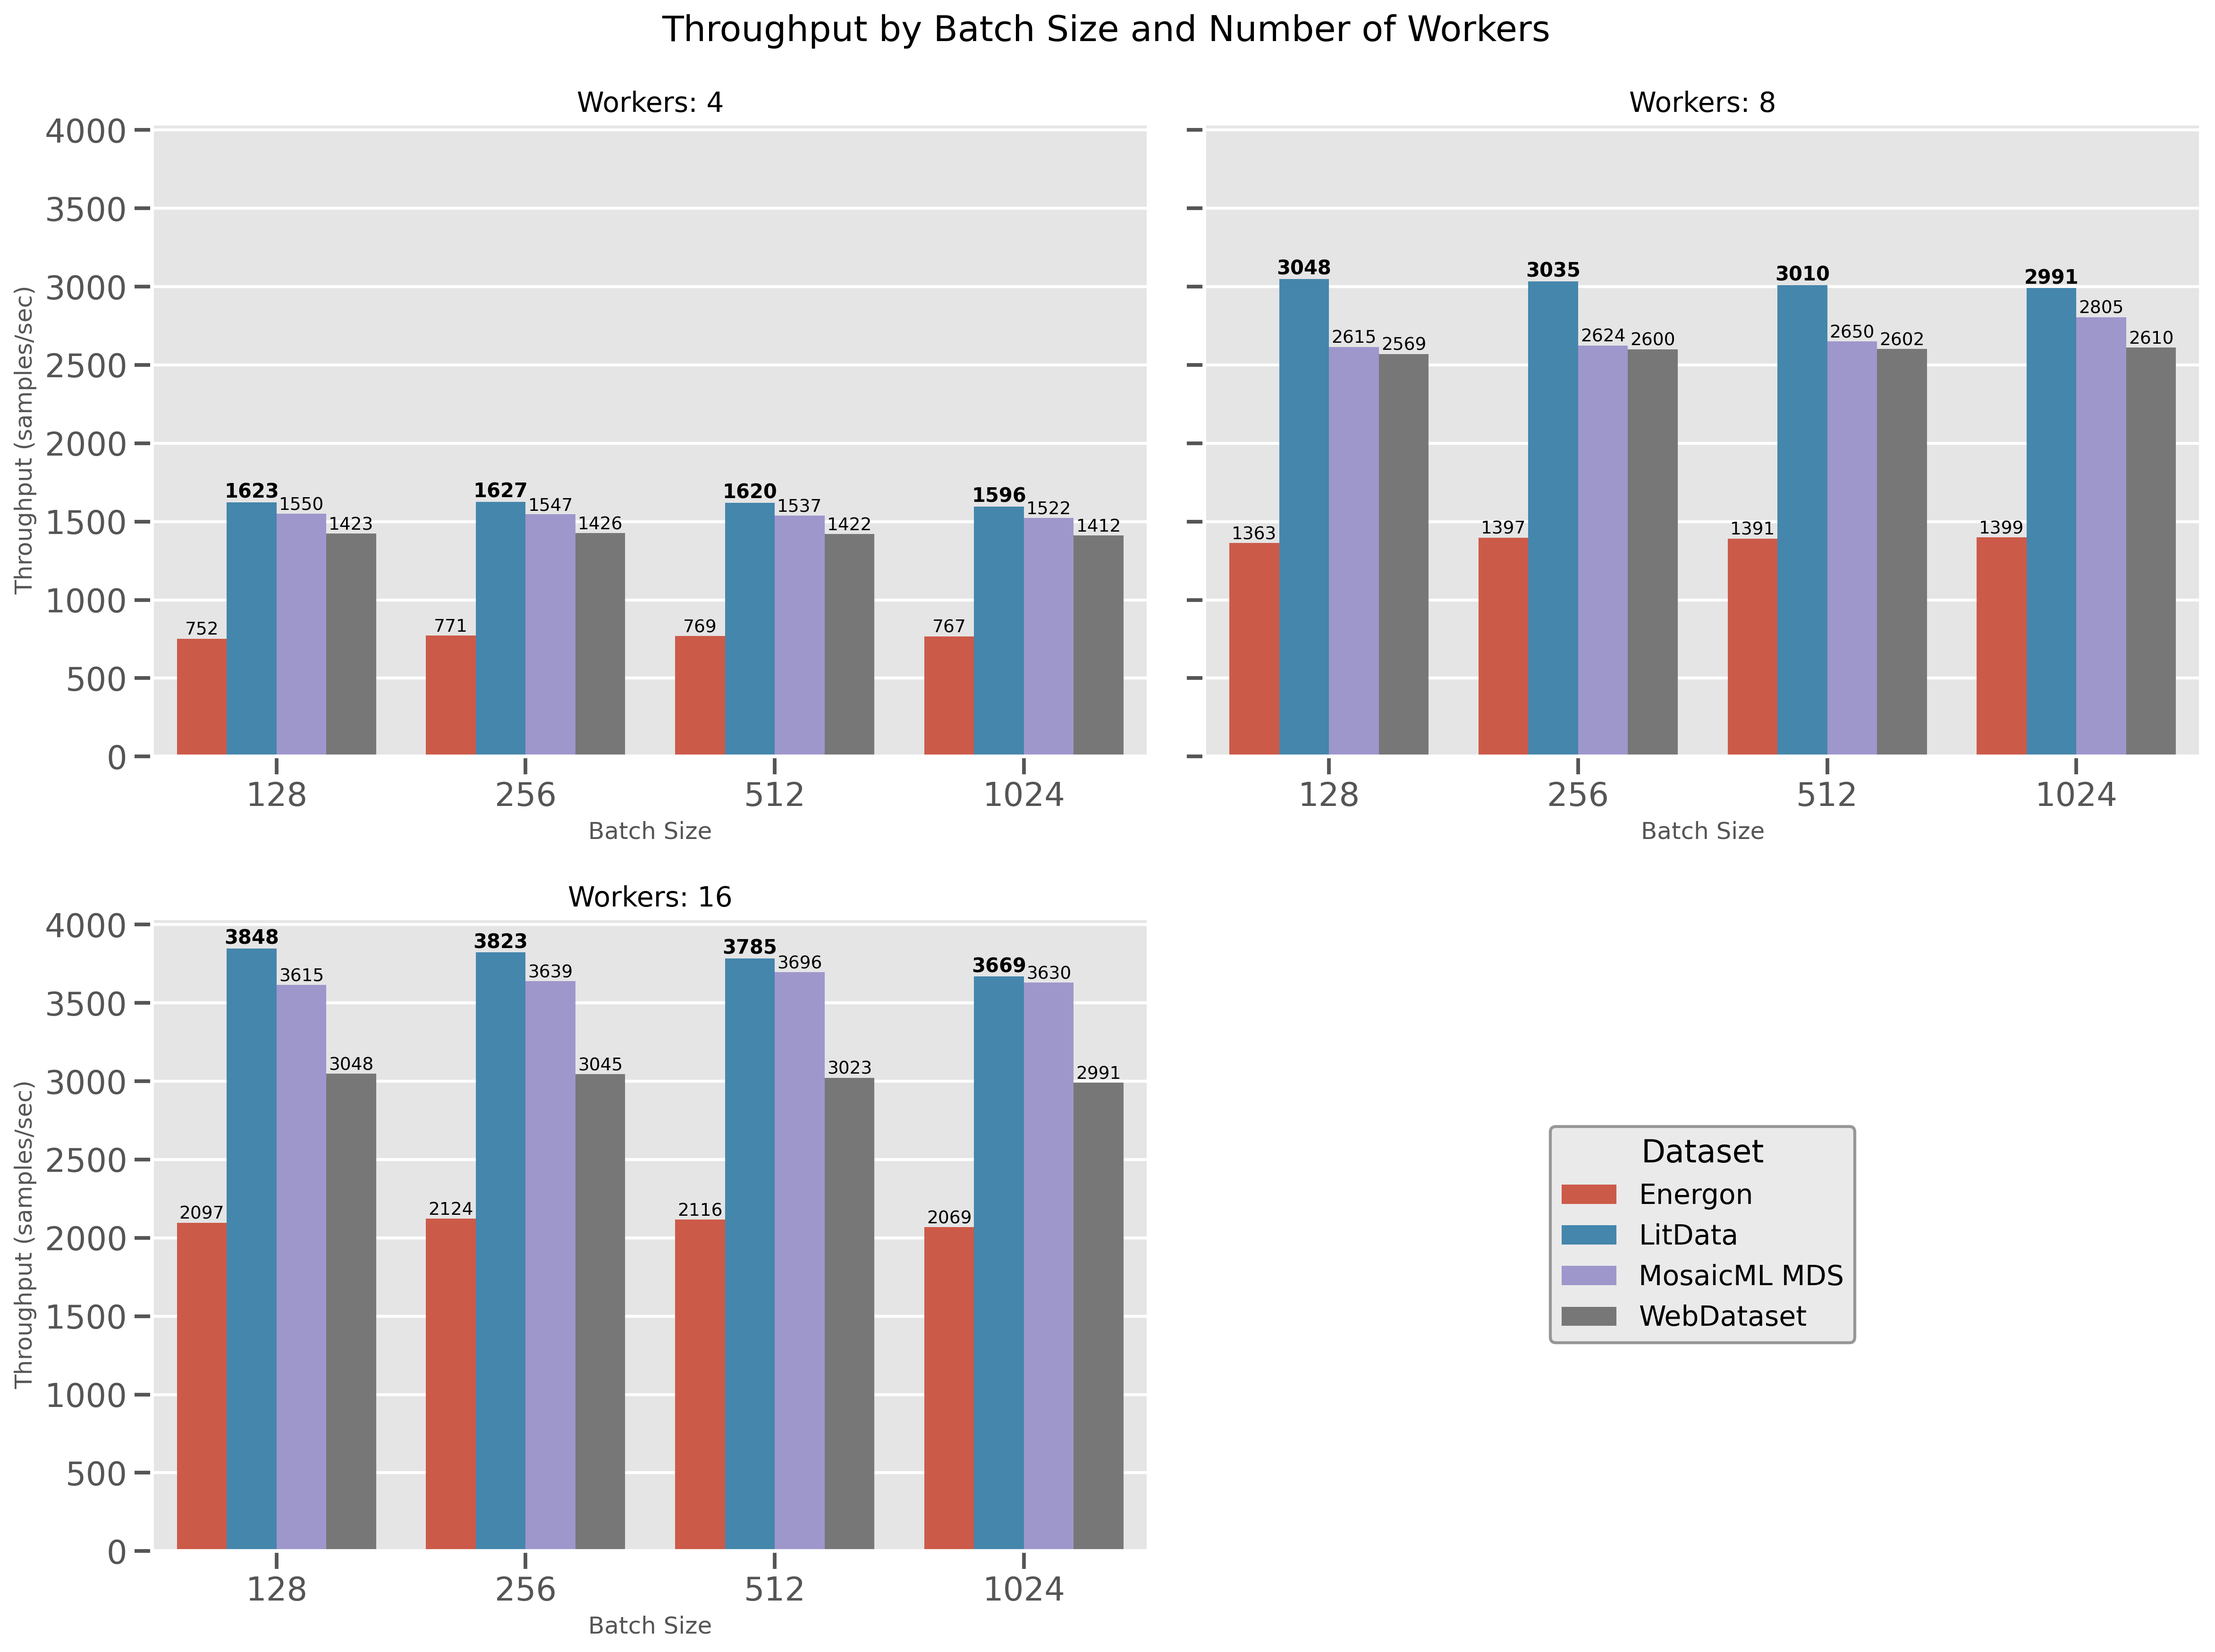
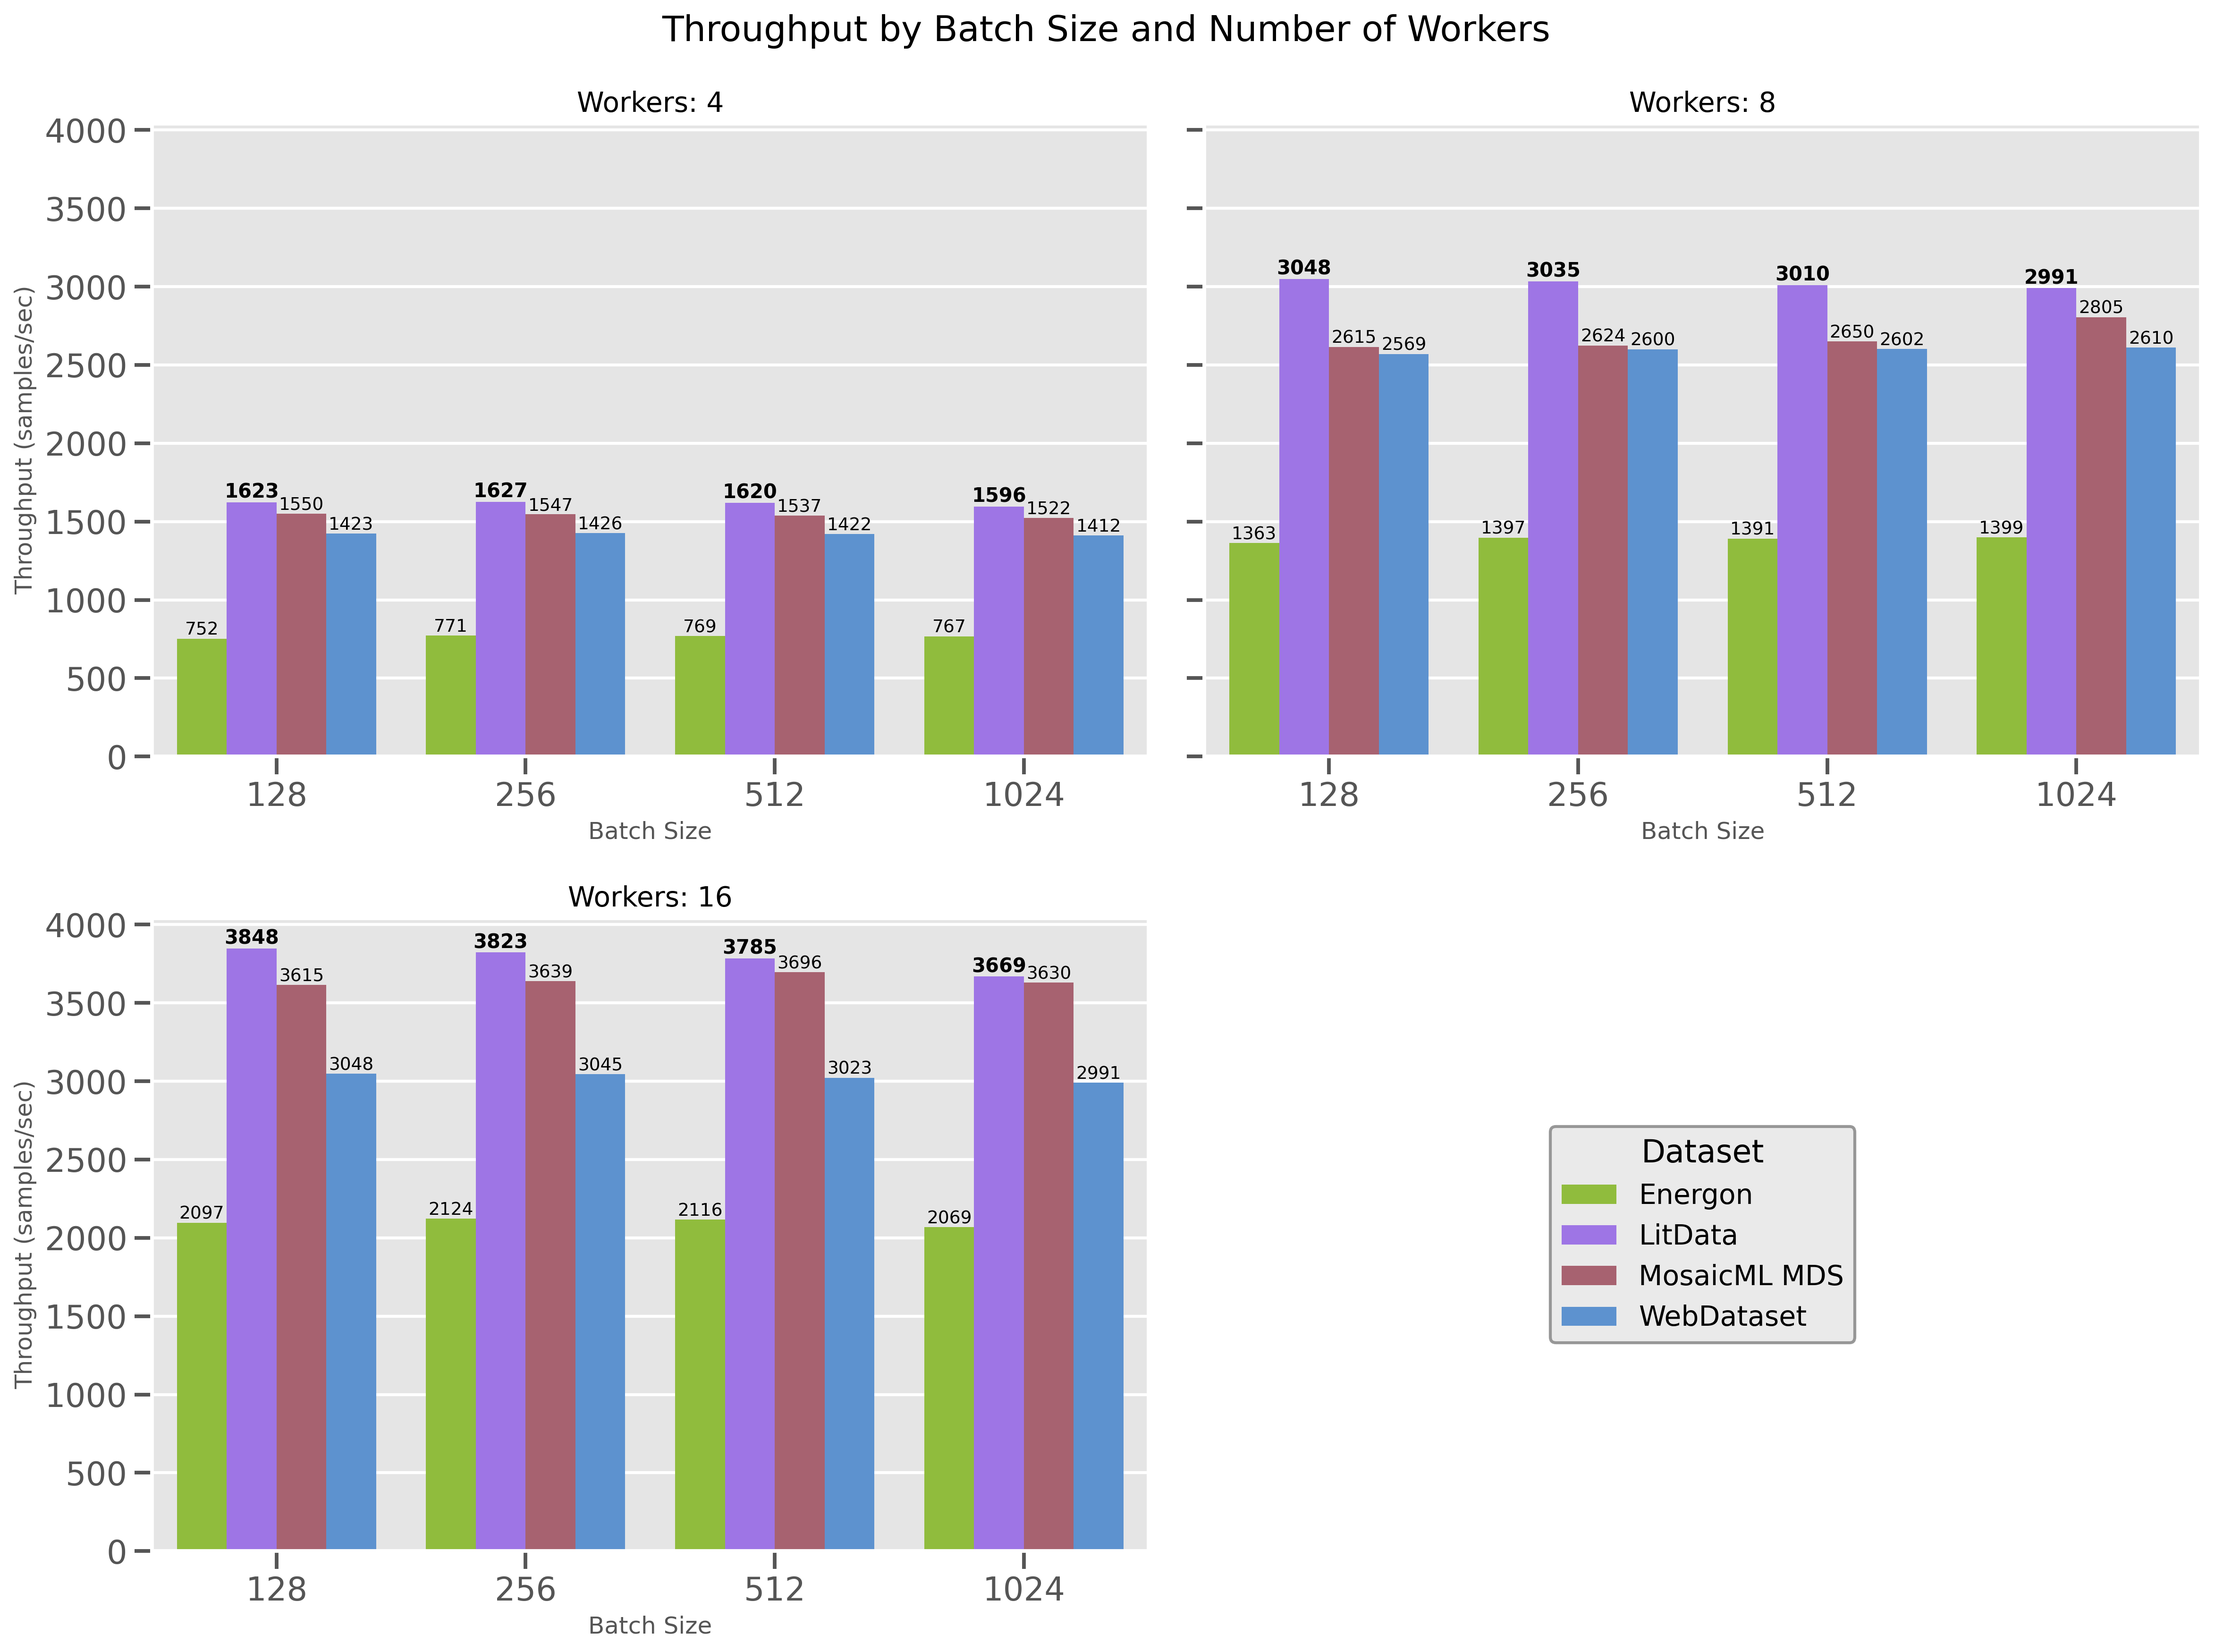
update colors

Changed region(s): [[0.0622, 0.1558, 0.9957, 0.4673], [0.0622, 0.5607, 0.529, 0.9657], [0.6846, 0.7165, 0.7468, 0.8099]]

diff --git a/visualize.py b/visualize.py
@@ -30,17 +30,33 @@ def create_batch_size_bar_grid(df, output_dir):
     fig, axes = plt.subplots(2, 2, figsize=(16, 12), sharey=True)
     axes = axes.flatten()  # Flatten to make indexing easier
     
-    # Get the color palette used in the grouped_bar_chart for consistency
-    palette = sns.color_palette()
+    # Define custom colors for each dataset with lighter shades
+    # Using brand-specific colors but lightened
+    custom_colors = {
+        'WebDataset': '#4A90E2',  # Lighter blue
+        'litdata': '#9963F7',     # Lighter PyTorch Lightning purple
+        'LitData': '#9963F7',     # Lighter PyTorch Lightning purple (alternate capitalization)
+        'MosaicML': '#B25769',    # Lighter maroon red
+        'MosaicML MDS': '#B25769',# Lighter maroon red (alternate name)
+        'Energon': '#96D128'      # Lighter NVIDIA green
+    }
     
     # Create a bar plot for each worker count in the first 3 positions
     for i, workers in enumerate(target_workers):
         # Filter data for this worker count
         worker_df = agg_df[agg_df['num_workers'] == workers]
         
-        # Create bar plot on the appropriate subplot
+        # Create bar plot on the appropriate subplot with custom colors
         ax = axes[i]
-        bars = sns.barplot(x='batch_size', y='throughput', hue='dataset', data=worker_df, ax=ax, palette=palette)
+        
+        # Get the unique datasets in the current worker subset and create a color map
+        unique_datasets = worker_df['dataset'].unique()
+        colors = [custom_colors.get(d, '#333333') for d in unique_datasets]  # Default to dark gray if not found
+        
+        # Create the plot with custom colors
+        bars = sns.barplot(x='batch_size', y='throughput', hue='dataset', data=worker_df, ax=ax, palette=colors)
+        
+
         
         # Set titles and labels
         ax.set_title(f'Workers: {workers}', fontsize=14)
@@ -110,23 +126,48 @@ def create_line_chart(df, output_dir):
     # Calculate average TTFB across prefetch_factor and batch_size
     agg_df = df.groupby(['dataset', 'num_workers']).agg({'TTFB': 'mean'}).reset_index()
     
-    # Plot lines
-    sns.lineplot(
+    # Define the same custom colors used in the bar grid for consistency
+    custom_colors = {
+        'WebDataset': '#4A90E2',  # Lighter blue
+        'litdata': '#9963F7',     # Lighter PyTorch Lightning purple
+        'LitData': '#9963F7',     # Lighter PyTorch Lightning purple (alternate capitalization)
+        'MosaicML': '#B25769',    # Lighter maroon red
+        'MosaicML MDS': '#B25769',# Lighter maroon red (alternate name)
+        'Energon': '#96D128'      # Lighter NVIDIA green
+    }
+    
+    # Get unique datasets and create a color palette
+    unique_datasets = agg_df['dataset'].unique()
+    colors = [custom_colors.get(d, '#333333') for d in unique_datasets]
+    
+    # Plot lines with custom colors
+    ax = sns.lineplot(
         data=agg_df,
         x='num_workers',
         y='TTFB',
         hue='dataset',
         marker='o',
         linewidth=2.5,
-        markersize=10
+        markersize=10,
+        palette=colors
     )
+    
+    # Add white outlines to markers for better visibility
+    for line in ax.get_lines():
+        line.set_markerfacecolor(line.get_color())
+        line.set_markeredgecolor('white')
+        line.set_markeredgewidth(0.7)
     
     plt.title('Time To First Batch (TTFB) by Number of Workers', fontsize=16)
     plt.xlabel('Number of Workers', fontsize=14)
     plt.ylabel('Average TTFB (seconds)', fontsize=14)
     plt.xticks(df['num_workers'].unique())
     plt.grid(True, linestyle='--', alpha=0.7)
-    plt.legend(title='Dataset', fontsize=12)
+    
+    # Create a more prominent legend
+    legend = plt.legend(title='Dataset', fontsize=12, frameon=True)
+    legend.get_frame().set_linewidth(1.0)
+    legend.get_frame().set_edgecolor('gray')
     
     plt.tight_layout()
     plt.savefig(os.path.join(output_dir, 'ttfb_line_chart.png'), dpi=300)
